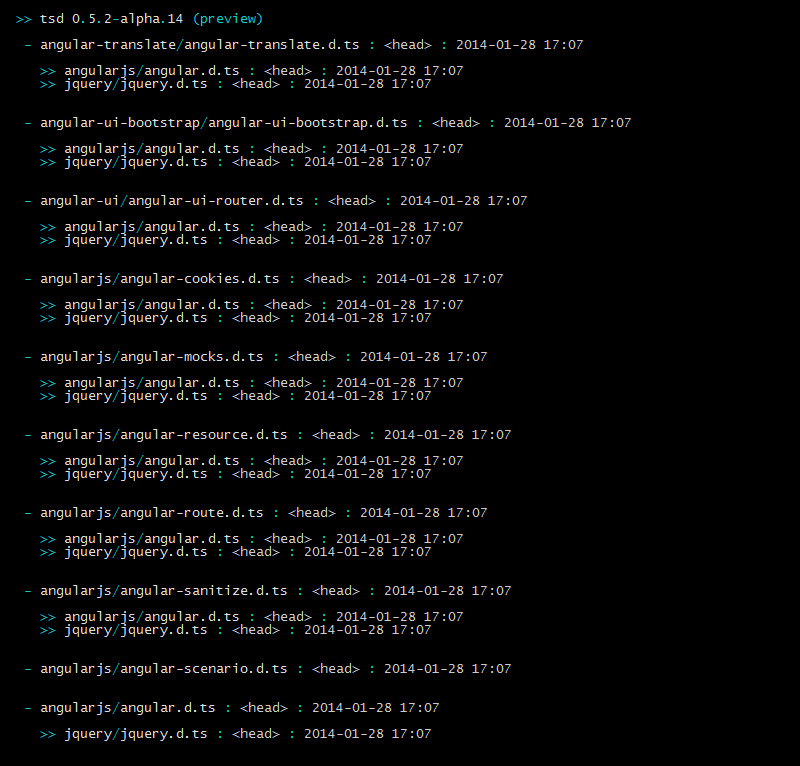
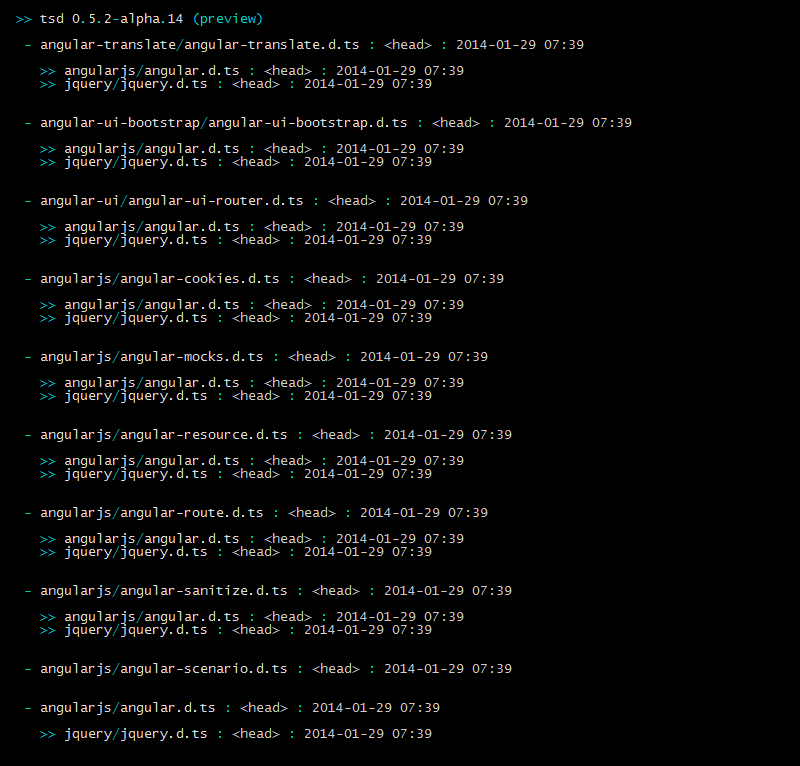
added feature to visit project-url * --action visit to CLI * .visit() in API * updated captures * updated cli help fixture

diff --git a/media/capture/angular.html b/media/capture/angular.html
@@ -58,51 +58,51 @@
     <span class="cli"></span><br/>
 <span class="cli"><span class="accent">&gt;&gt; </span>tsd 0<span class="accent">.</span>5<span class="accent">.</span>2<span class="accent">-</span>alpha<span class="accent">.</span>14<span class="plain"> </span><span class="accent">(preview)</span></span><br/>
 <span class="cli"></span><br/>
-<span class="cli"><span class="accent"> - </span>angular-translate<span class="accent">/</span>angular-translate.d.ts<span class="accent"> : </span><span class="plain">&lt;head&gt;</span><span class="accent"> : </span><span class="plain">2014-01-28 17:07</span></span><br/>
+<span class="cli"><span class="accent"> - </span>angular-translate<span class="accent">/</span>angular-translate.d.ts<span class="accent"> : </span><span class="plain">&lt;head&gt;</span><span class="accent"> : </span><span class="plain">2014-01-29 07:39</span></span><br/>
 <span class="cli"></span><br/>
-<span class="cli">   <span class="accent">&gt;&gt; </span>angularjs<span class="accent">/</span>angular.d.ts<span class="accent"> : </span><span class="plain">&lt;head&gt;</span><span class="accent"> : </span><span class="plain">2014-01-28 17:07</span></span><br/>
-<span class="cli">   <span class="accent">&gt;&gt; </span>jquery<span class="accent">/</span>jquery.d.ts<span class="accent"> : </span><span class="plain">&lt;head&gt;</span><span class="accent"> : </span><span class="plain">2014-01-28 17:07</span></span><br/>
+<span class="cli">   <span class="accent">&gt;&gt; </span>angularjs<span class="accent">/</span>angular.d.ts<span class="accent"> : </span><span class="plain">&lt;head&gt;</span><span class="accent"> : </span><span class="plain">2014-01-29 07:39</span></span><br/>
+<span class="cli">   <span class="accent">&gt;&gt; </span>jquery<span class="accent">/</span>jquery.d.ts<span class="accent"> : </span><span class="plain">&lt;head&gt;</span><span class="accent"> : </span><span class="plain">2014-01-29 07:39</span></span><br/>
 <span class="cli"><span class="plain"></span><br/>
-<span class="cli"></span><span class="accent"> - </span>angular-ui-bootstrap<span class="accent">/</span>angular-ui-bootstrap.d.ts<span class="accent"> : </span><span class="plain">&lt;head&gt;</span><span class="accent"> : </span><span class="plain">2014-01-28 17:07</span></span><br/>
+<span class="cli"></span><span class="accent"> - </span>angular-ui-bootstrap<span class="accent">/</span>angular-ui-bootstrap.d.ts<span class="accent"> : </span><span class="plain">&lt;head&gt;</span><span class="accent"> : </span><span class="plain">2014-01-29 07:39</span></span><br/>
 <span class="cli"></span><br/>
-<span class="cli">   <span class="accent">&gt;&gt; </span>angularjs<span class="accent">/</span>angular.d.ts<span class="accent"> : </span><span class="plain">&lt;head&gt;</span><span class="accent"> : </span><span class="plain">2014-01-28 17:07</span></span><br/>
-<span class="cli">   <span class="accent">&gt;&gt; </span>jquery<span class="accent">/</span>jquery.d.ts<span class="accent"> : </span><span class="plain">&lt;head&gt;</span><span class="accent"> : </span><span class="plain">2014-01-28 17:07</span></span><br/>
+<span class="cli">   <span class="accent">&gt;&gt; </span>angularjs<span class="accent">/</span>angular.d.ts<span class="accent"> : </span><span class="plain">&lt;head&gt;</span><span class="accent"> : </span><span class="plain">2014-01-29 07:39</span></span><br/>
+<span class="cli">   <span class="accent">&gt;&gt; </span>jquery<span class="accent">/</span>jquery.d.ts<span class="accent"> : </span><span class="plain">&lt;head&gt;</span><span class="accent"> : </span><span class="plain">2014-01-29 07:39</span></span><br/>
 <span class="cli"><span class="plain"></span><br/>
-<span class="cli"></span><span class="accent"> - </span>angular-ui<span class="accent">/</span>angular-ui-router.d.ts<span class="accent"> : </span><span class="plain">&lt;head&gt;</span><span class="accent"> : </span><span class="plain">2014-01-28 17:07</span></span><br/>
+<span class="cli"></span><span class="accent"> - </span>angular-ui<span class="accent">/</span>angular-ui-router.d.ts<span class="accent"> : </span><span class="plain">&lt;head&gt;</span><span class="accent"> : </span><span class="plain">2014-01-29 07:39</span></span><br/>
 <span class="cli"></span><br/>
-<span class="cli">   <span class="accent">&gt;&gt; </span>angularjs<span class="accent">/</span>angular.d.ts<span class="accent"> : </span><span class="plain">&lt;head&gt;</span><span class="accent"> : </span><span class="plain">2014-01-28 17:07</span></span><br/>
-<span class="cli">   <span class="accent">&gt;&gt; </span>jquery<span class="accent">/</span>jquery.d.ts<span class="accent"> : </span><span class="plain">&lt;head&gt;</span><span class="accent"> : </span><span class="plain">2014-01-28 17:07</span></span><br/>
+<span class="cli">   <span class="accent">&gt;&gt; </span>angularjs<span class="accent">/</span>angular.d.ts<span class="accent"> : </span><span class="plain">&lt;head&gt;</span><span class="accent"> : </span><span class="plain">2014-01-29 07:39</span></span><br/>
+<span class="cli">   <span class="accent">&gt;&gt; </span>jquery<span class="accent">/</span>jquery.d.ts<span class="accent"> : </span><span class="plain">&lt;head&gt;</span><span class="accent"> : </span><span class="plain">2014-01-29 07:39</span></span><br/>
 <span class="cli"><span class="plain"></span><br/>
-<span class="cli"></span><span class="accent"> - </span>angularjs<span class="accent">/</span>angular-cookies.d.ts<span class="accent"> : </span><span class="plain">&lt;head&gt;</span><span class="accent"> : </span><span class="plain">2014-01-28 17:07</span></span><br/>
+<span class="cli"></span><span class="accent"> - </span>angularjs<span class="accent">/</span>angular-cookies.d.ts<span class="accent"> : </span><span class="plain">&lt;head&gt;</span><span class="accent"> : </span><span class="plain">2014-01-29 07:39</span></span><br/>
 <span class="cli"></span><br/>
-<span class="cli">   <span class="accent">&gt;&gt; </span>angularjs<span class="accent">/</span>angular.d.ts<span class="accent"> : </span><span class="plain">&lt;head&gt;</span><span class="accent"> : </span><span class="plain">2014-01-28 17:07</span></span><br/>
-<span class="cli">   <span class="accent">&gt;&gt; </span>jquery<span class="accent">/</span>jquery.d.ts<span class="accent"> : </span><span class="plain">&lt;head&gt;</span><span class="accent"> : </span><span class="plain">2014-01-28 17:07</span></span><br/>
+<span class="cli">   <span class="accent">&gt;&gt; </span>angularjs<span class="accent">/</span>angular.d.ts<span class="accent"> : </span><span class="plain">&lt;head&gt;</span><span class="accent"> : </span><span class="plain">2014-01-29 07:39</span></span><br/>
+<span class="cli">   <span class="accent">&gt;&gt; </span>jquery<span class="accent">/</span>jquery.d.ts<span class="accent"> : </span><span class="plain">&lt;head&gt;</span><span class="accent"> : </span><span class="plain">2014-01-29 07:39</span></span><br/>
 <span class="cli"><span class="plain"></span><br/>
-<span class="cli"></span><span class="accent"> - </span>angularjs<span class="accent">/</span>angular-mocks.d.ts<span class="accent"> : </span><span class="plain">&lt;head&gt;</span><span class="accent"> : </span><span class="plain">2014-01-28 17:07</span></span><br/>
+<span class="cli"></span><span class="accent"> - </span>angularjs<span class="accent">/</span>angular-mocks.d.ts<span class="accent"> : </span><span class="plain">&lt;head&gt;</span><span class="accent"> : </span><span class="plain">2014-01-29 07:39</span></span><br/>
 <span class="cli"></span><br/>
-<span class="cli">   <span class="accent">&gt;&gt; </span>angularjs<span class="accent">/</span>angular.d.ts<span class="accent"> : </span><span class="plain">&lt;head&gt;</span><span class="accent"> : </span><span class="plain">2014-01-28 17:07</span></span><br/>
-<span class="cli">   <span class="accent">&gt;&gt; </span>jquery<span class="accent">/</span>jquery.d.ts<span class="accent"> : </span><span class="plain">&lt;head&gt;</span><span class="accent"> : </span><span class="plain">2014-01-28 17:07</span></span><br/>
+<span class="cli">   <span class="accent">&gt;&gt; </span>angularjs<span class="accent">/</span>angular.d.ts<span class="accent"> : </span><span class="plain">&lt;head&gt;</span><span class="accent"> : </span><span class="plain">2014-01-29 07:39</span></span><br/>
+<span class="cli">   <span class="accent">&gt;&gt; </span>jquery<span class="accent">/</span>jquery.d.ts<span class="accent"> : </span><span class="plain">&lt;head&gt;</span><span class="accent"> : </span><span class="plain">2014-01-29 07:39</span></span><br/>
 <span class="cli"><span class="plain"></span><br/>
-<span class="cli"></span><span class="accent"> - </span>angularjs<span class="accent">/</span>angular-resource.d.ts<span class="accent"> : </span><span class="plain">&lt;head&gt;</span><span class="accent"> : </span><span class="plain">2014-01-28 17:07</span></span><br/>
+<span class="cli"></span><span class="accent"> - </span>angularjs<span class="accent">/</span>angular-resource.d.ts<span class="accent"> : </span><span class="plain">&lt;head&gt;</span><span class="accent"> : </span><span class="plain">2014-01-29 07:39</span></span><br/>
 <span class="cli"></span><br/>
-<span class="cli">   <span class="accent">&gt;&gt; </span>angularjs<span class="accent">/</span>angular.d.ts<span class="accent"> : </span><span class="plain">&lt;head&gt;</span><span class="accent"> : </span><span class="plain">2014-01-28 17:07</span></span><br/>
-<span class="cli">   <span class="accent">&gt;&gt; </span>jquery<span class="accent">/</span>jquery.d.ts<span class="accent"> : </span><span class="plain">&lt;head&gt;</span><span class="accent"> : </span><span class="plain">2014-01-28 17:07</span></span><br/>
+<span class="cli">   <span class="accent">&gt;&gt; </span>angularjs<span class="accent">/</span>angular.d.ts<span class="accent"> : </span><span class="plain">&lt;head&gt;</span><span class="accent"> : </span><span class="plain">2014-01-29 07:39</span></span><br/>
+<span class="cli">   <span class="accent">&gt;&gt; </span>jquery<span class="accent">/</span>jquery.d.ts<span class="accent"> : </span><span class="plain">&lt;head&gt;</span><span class="accent"> : </span><span class="plain">2014-01-29 07:39</span></span><br/>
 <span class="cli"><span class="plain"></span><br/>
-<span class="cli"></span><span class="accent"> - </span>angularjs<span class="accent">/</span>angular-route.d.ts<span class="accent"> : </span><span class="plain">&lt;head&gt;</span><span class="accent"> : </span><span class="plain">2014-01-28 17:07</span></span><br/>
+<span class="cli"></span><span class="accent"> - </span>angularjs<span class="accent">/</span>angular-route.d.ts<span class="accent"> : </span><span class="plain">&lt;head&gt;</span><span class="accent"> : </span><span class="plain">2014-01-29 07:39</span></span><br/>
 <span class="cli"></span><br/>
-<span class="cli">   <span class="accent">&gt;&gt; </span>angularjs<span class="accent">/</span>angular.d.ts<span class="accent"> : </span><span class="plain">&lt;head&gt;</span><span class="accent"> : </span><span class="plain">2014-01-28 17:07</span></span><br/>
-<span class="cli">   <span class="accent">&gt;&gt; </span>jquery<span class="accent">/</span>jquery.d.ts<span class="accent"> : </span><span class="plain">&lt;head&gt;</span><span class="accent"> : </span><span class="plain">2014-01-28 17:07</span></span><br/>
+<span class="cli">   <span class="accent">&gt;&gt; </span>angularjs<span class="accent">/</span>angular.d.ts<span class="accent"> : </span><span class="plain">&lt;head&gt;</span><span class="accent"> : </span><span class="plain">2014-01-29 07:39</span></span><br/>
+<span class="cli">   <span class="accent">&gt;&gt; </span>jquery<span class="accent">/</span>jquery.d.ts<span class="accent"> : </span><span class="plain">&lt;head&gt;</span><span class="accent"> : </span><span class="plain">2014-01-29 07:39</span></span><br/>
 <span class="cli"><span class="plain"></span><br/>
-<span class="cli"></span><span class="accent"> - </span>angularjs<span class="accent">/</span>angular-sanitize.d.ts<span class="accent"> : </span><span class="plain">&lt;head&gt;</span><span class="accent"> : </span><span class="plain">2014-01-28 17:07</span></span><br/>
+<span class="cli"></span><span class="accent"> - </span>angularjs<span class="accent">/</span>angular-sanitize.d.ts<span class="accent"> : </span><span class="plain">&lt;head&gt;</span><span class="accent"> : </span><span class="plain">2014-01-29 07:39</span></span><br/>
 <span class="cli"></span><br/>
-<span class="cli">   <span class="accent">&gt;&gt; </span>angularjs<span class="accent">/</span>angular.d.ts<span class="accent"> : </span><span class="plain">&lt;head&gt;</span><span class="accent"> : </span><span class="plain">2014-01-28 17:07</span></span><br/>
-<span class="cli">   <span class="accent">&gt;&gt; </span>jquery<span class="accent">/</span>jquery.d.ts<span class="accent"> : </span><span class="plain">&lt;head&gt;</span><span class="accent"> : </span><span class="plain">2014-01-28 17:07</span></span><br/>
+<span class="cli">   <span class="accent">&gt;&gt; </span>angularjs<span class="accent">/</span>angular.d.ts<span class="accent"> : </span><span class="plain">&lt;head&gt;</span><span class="accent"> : </span><span class="plain">2014-01-29 07:39</span></span><br/>
+<span class="cli">   <span class="accent">&gt;&gt; </span>jquery<span class="accent">/</span>jquery.d.ts<span class="accent"> : </span><span class="plain">&lt;head&gt;</span><span class="accent"> : </span><span class="plain">2014-01-29 07:39</span></span><br/>
 <span class="cli"><span class="plain"></span><br/>
-<span class="cli"></span><span class="accent"> - </span>angularjs<span class="accent">/</span>angular-scenario.d.ts<span class="accent"> : </span><span class="plain">&lt;head&gt;</span><span class="accent"> : </span><span class="plain">2014-01-28 17:07</span></span><br/>
+<span class="cli"></span><span class="accent"> - </span>angularjs<span class="accent">/</span>angular-scenario.d.ts<span class="accent"> : </span><span class="plain">&lt;head&gt;</span><span class="accent"> : </span><span class="plain">2014-01-29 07:39</span></span><br/>
 <span class="cli"><span class="plain"></span><br/>
-<span class="cli"></span><span class="accent"> - </span>angularjs<span class="accent">/</span>angular.d.ts<span class="accent"> : </span><span class="plain">&lt;head&gt;</span><span class="accent"> : </span><span class="plain">2014-01-28 17:07</span></span><br/>
+<span class="cli"></span><span class="accent"> - </span>angularjs<span class="accent">/</span>angular.d.ts<span class="accent"> : </span><span class="plain">&lt;head&gt;</span><span class="accent"> : </span><span class="plain">2014-01-29 07:39</span></span><br/>
 <span class="cli"></span><br/>
-<span class="cli">   <span class="accent">&gt;&gt; </span>jquery<span class="accent">/</span>jquery.d.ts<span class="accent"> : </span><span class="plain">&lt;head&gt;</span><span class="accent"> : </span><span class="plain">2014-01-28 17:07</span></span><br/>
+<span class="cli">   <span class="accent">&gt;&gt; </span>jquery<span class="accent">/</span>jquery.d.ts<span class="accent"> : </span><span class="plain">&lt;head&gt;</span><span class="accent"> : </span><span class="plain">2014-01-29 07:39</span></span><br/>
 
 
 </div>

diff --git a/build/api.js b/build/api.js
@@ -7797,20 +7797,20 @@ var tsd;
             return d.promise;
         };
 
-        API.prototype.browse = function (selection) {
+        API.prototype.browse = function (list) {
             var _this = this;
-            xm.assertVar(selection, tsd.Selection, 'selection');
+            xm.assertVar(list, tsd.Selection, 'selection');
 
             var d = Q.defer();
             this.track.promise(d.promise, 'browse');
-
-            if (selection.selection.length > 2) {
+            if (list.length > 2) {
                 d.reject(new Error('to many results to open in browser'));
+                return d.promise;
             }
 
             var opened = [];
 
-            selection.selection.forEach(function (file) {
+            list.forEach(function (file) {
                 var ref = file.commit.commitSha;
 
                 if (file.commit.commitSha === file.def.head.commit.commitSha) {
@@ -7821,6 +7821,43 @@ var tsd;
                 openInApp(url);
             });
             d.resolve(opened);
+
+            return d.promise;
+        };
+
+        API.prototype.visit = function (list) {
+            var _this = this;
+            xm.assertVar(list, tsd.Selection, 'selection');
+
+            var d = Q.defer();
+            this.track.promise(d.promise, 'visit');
+            if (list.length > 2) {
+                d.reject(new Error('to many results to open in browser'));
+                return d.promise;
+            }
+
+            var opened = [];
+
+            Q.all(list.map(function (file) {
+                if (!file.info) {
+                    return _this.core.parser.parseDefInfo(file).progress(d.notify);
+                }
+                return Q(file);
+            })).then(function () {
+                list.forEach(function (file) {
+                    var url;
+                    if (file.info && file.info.projectUrl) {
+                        url = file.info.projectUrl;
+                    } else if (file.def.head.info && file.def.head.info.projectUrl) {
+                        url = file.def.head.info.projectUrl;
+                    }
+                    if (url) {
+                        opened.push(url);
+                        openInApp(url);
+                    }
+                });
+                d.resolve(opened);
+            }).fail(d.reject);
 
             return d.promise;
         };
@@ -9160,6 +9197,14 @@ var tsd;
                 });
             };
 
+            Tracker.prototype.visit = function (url) {
+                this.sendEvent({
+                    ec: 'visit',
+                    ea: url,
+                    dp: this.getPage()
+                });
+            };
+
             Tracker.prototype.error = function (err) {
                 if (err) {
                     if (err.message) {
@@ -9394,6 +9439,7 @@ var tsd;
             Action.install = 'install';
             Action.open = 'open';
             Action.browse = 'browse';
+            Action.visit = 'visit';
             Action.compare = 'compare';
             Action.update = 'update';
         })(cli.Action || (cli.Action = {}));
@@ -9613,7 +9659,7 @@ var tsd;
                 opt.description = 'run action on selection';
                 opt.type = 'string';
                 opt.placeholder = 'name';
-                opt.enum = [cli.Action.install, cli.Action.browse];
+                opt.enum = [cli.Action.install, cli.Action.browse, cli.Action.visit];
             });
         }
         cli.addCommon = addCommon;
@@ -9921,12 +9967,23 @@ var tsd;
             });
         });
         queryActions.set(Action.browse, function (ctx, job, selection) {
-            return job.api.browse(selection).then(function (opened) {
+            return job.api.browse(selection.selection).then(function (opened) {
                 if (opened.length > 0) {
                     print.output.ln();
                     opened.forEach(function (url) {
                         print.output.note(true).line(url);
                         tracker.browser(url);
+                    });
+                }
+            });
+        });
+        queryActions.set(Action.visit, function (ctx, job, selection) {
+            return job.api.visit(selection.selection).then(function (opened) {
+                if (opened.length > 0) {
+                    print.output.ln();
+                    opened.forEach(function (url) {
+                        print.output.note(true).line(url);
+                        tracker.visit(url);
                     });
                 }
             });

diff --git a/media/capture/help.html b/media/capture/help.html
@@ -68,7 +68,7 @@
 <span class="cli">      <span class="accent"> $ </span>tsd query angular* --resolve       <span class="accent"> : </span>list angularjs bundle</span><br/>
 <span class="cli"></span><br/>
 <span class="cli">    <span class="accent">--</span><span class="plain">action</span> <span class="muted">&lt;</span><span class="plain">name</span><span class="muted">&gt;</span>      <span class="accent">-</span>a   <span class="accent"> &gt; </span><span class="plain">run action on selection</span> <span class="accent">(</span><span class="plain">string</span><span class="accent">)</span></span><br/>
-<span class="cli">                                 <span class="accent"> [ </span><span class="plain">install, browse</span><span class="accent"> ]</span></span><br/>
+<span class="cli">                                 <span class="accent"> [ </span><span class="plain">install, browse, visit</span><span class="accent"> ]</span></span><br/>
 <span class="cli">    <span class="accent">--</span><span class="plain">bundle</span>             <span class="accent">-</span>b   <span class="accent"> &gt; </span><span class="plain">save to reference bundle</span> <span class="accent">(</span><span class="plain">string[]</span><span class="accent">)</span></span><br/>
 <span class="cli">    <span class="accent">--</span><span class="plain">commit</span> <span class="muted">&lt;</span><span class="plain">sha1</span><span class="muted">&gt;</span>      <span class="accent">-</span>c   <span class="accent"> &gt; </span><span class="plain">filter on commit hash</span> <span class="accent">(</span><span class="plain">string</span><span class="accent">)</span></span><br/>
 <span class="cli">    <span class="accent">--</span><span class="plain">date</span> <span class="muted">&lt;</span><span class="plain">range</span><span class="muted">&gt;</span>       <span class="accent">-</span>d   <span class="accent"> &gt; </span><span class="plain">filter on commit date</span> <span class="accent">(</span><span class="plain">string</span><span class="accent">)</span></span><br/>

diff --git a/media/capture/async.html b/media/capture/async.html
@@ -57,10 +57,9 @@
 <div class="content">
     <span class="cli"></span><br/>
 <span class="cli"><span class="accent">&gt;&gt; </span>tsd 0<span class="accent">.</span>5<span class="accent">.</span>2<span class="accent">-</span>alpha<span class="accent">.</span>14<span class="plain"> </span><span class="accent">(preview)</span></span><br/>
-<span class="cli">   <span class="accent"> &gt; </span><span class="plain">rate-limit</span><span class="plain"> </span><span class="plain">remaining </span><span class="accent">54</span><span class="plain"> / </span><span class="accent">60</span></span><br/>
-<span class="cli">   <span class="accent"> &gt; </span><span class="plain">rate-limit</span><span class="plain"> </span><span class="plain">remaining </span><span class="accent">53</span><span class="plain"> / </span><span class="accent">60</span></span><br/>
+<span class="cli">   <span class="accent"> &gt; </span><span class="plain">rate-limit</span><span class="plain"> </span><span class="plain">remaining </span><span class="accent">58</span><span class="plain"> / </span><span class="accent">60</span></span><br/>
 <span class="cli"></span><br/>
-<span class="cli"><span class="accent"> - </span>async<span class="accent">/</span>async.d.ts<span class="accent"> : </span><span class="plain">&lt;head&gt;</span><span class="accent"> : </span><span class="plain">2014-01-28 17:07</span></span><br/>
+<span class="cli"><span class="accent"> - </span>async<span class="accent">/</span>async.d.ts<span class="accent"> : </span><span class="plain">&lt;head&gt;</span><span class="accent"> : </span><span class="plain">2014-01-29 07:39</span></span><br/>
 <span class="cli"></span><br/>
 <span class="cli">   Async 0<span class="accent">.</span>1<span class="accent">.</span>23<span class="plain"> </span><span class="muted">&lt;</span>github.com<span class="accent">/</span>caolan<span class="accent">/</span>async<span class="muted">&gt;</span></span><br/>
 <span class="cli"></span><br/>

diff --git a/src/tsd/API.ts b/src/tsd/API.ts
@@ -241,19 +241,19 @@ module tsd {
 		/*
 		 browse selection in browser
 		 */
-		browse(selection:tsd.Selection):Q.Promise<string[]> {
-			xm.assertVar(selection, tsd.Selection, 'selection');
+		browse(list:tsd.DefVersion[]):Q.Promise<string[]> {
+			xm.assertVar(list, tsd.Selection, 'selection');
 
 			var d:Q.Deferred<string[]> = Q.defer();
 			this.track.promise(d.promise, 'browse');
-
-			if (selection.selection.length > 2) {
+			if (list.length > 2) {
 				d.reject(new Error('to many results to open in browser'));
+				return d.promise;
 			}
 
 			var opened = [];
 
-			selection.selection.forEach((file:tsd.DefVersion) => {
+			list.forEach((file:tsd.DefVersion) => {
 				var ref = file.commit.commitSha;
 				// same?
 				if (file.commit.commitSha === file.def.head.commit.commitSha) {
@@ -264,6 +264,46 @@ module tsd {
 				openInApp(url);
 			});
 			d.resolve(opened);
+
+			return d.promise;
+		}
+
+		/*
+		 visit selection's project-url in browser
+		 */
+		visit(list:tsd.DefVersion[]):Q.Promise<string[]> {
+			xm.assertVar(list, tsd.Selection, 'selection');
+
+			var d:Q.Deferred<string[]> = Q.defer();
+			this.track.promise(d.promise, 'visit');
+			if (list.length > 2) {
+				d.reject(new Error('to many results to open in browser'));
+				return d.promise;
+			}
+
+			var opened = [];
+
+			Q.all(list.map((file:tsd.DefVersion) => {
+				if (!file.info) {
+					return this.core.parser.parseDefInfo(file).progress(d.notify);
+				}
+				return Q(file);
+			})).then(() => {
+				list.forEach((file:tsd.DefVersion) => {
+					var url;
+					if (file.info && file.info.projectUrl) {
+						url = file.info.projectUrl;
+					}
+					else if (file.def.head.info && file.def.head.info.projectUrl) {
+						url = file.def.head.info.projectUrl;
+					}
+					if (url) {
+						opened.push(url);
+						openInApp(url);
+					}
+				});
+				d.resolve(opened);
+			}).fail(d.reject);
 
 			return d.promise;
 		}

diff --git a/src/tsd/CLI.ts b/src/tsd/CLI.ts
@@ -379,12 +379,23 @@ module tsd {
 			});
 		});
 		queryActions.set(Action.browse, function (ctx:xm.ExposeContext, job:Job, selection:tsd.Selection) {
-			return job.api.browse(selection).then((opened:string[]) => {
+			return job.api.browse(selection.selection).then((opened:string[]) => {
 				if (opened.length > 0) {
 					print.output.ln();
 					opened.forEach((url:string) => {
 						print.output.note(true).line(url);
 						tracker.browser(url);
+					});
+				}
+			});
+		});
+		queryActions.set(Action.visit, function (ctx:xm.ExposeContext, job:Job, selection:tsd.Selection) {
+			return job.api.visit(selection.selection).then((opened:string[]) => {
+				if (opened.length > 0) {
+					print.output.ln();
+					opened.forEach((url:string) => {
+						print.output.note(true).line(url);
+						tracker.visit(url);
 					});
 				}
 			});

diff --git a/src/tsd/cli/options.ts b/src/tsd/cli/options.ts
@@ -242,7 +242,7 @@ module tsd {
 				opt.description = 'run action on selection';
 				opt.type = 'string';
 				opt.placeholder = 'name';
-				opt.enum = [Action.install, Action.browse]; // , Action.compare, Action.update, Action.open];
+				opt.enum = [Action.install, Action.browse, Action.visit]; // , Action.compare, Action.update, Action.open];
 			});
 		}
 	}

diff --git a/src/tsd/cli/tracker.ts b/src/tsd/cli/tracker.ts
@@ -100,6 +100,14 @@ module tsd {
 				});
 			}
 
+			visit(url:string):void {
+				this.sendEvent({
+					ec: 'visit',
+					ea: url,
+					dp: this.getPage()
+				});
+			}
+
 			error(err:any):void {
 				if (err) {
 					if (err.message) {

diff --git a/src/tsd/cli/const.ts b/src/tsd/cli/const.ts
@@ -48,6 +48,7 @@ module tsd {
 			export var install = 'install';
 			export var open = 'open';
 			export var browse = 'browse';
+			export var visit = 'visit';
 			export var compare = 'compare';
 			export var update = 'update';
 		}
